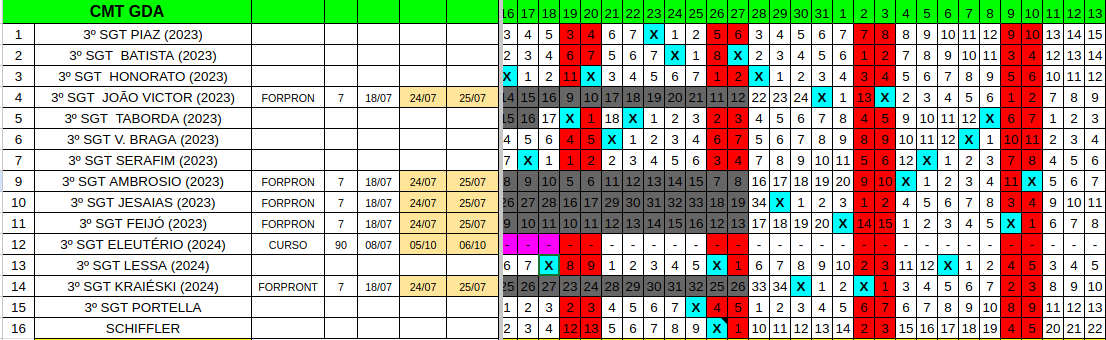
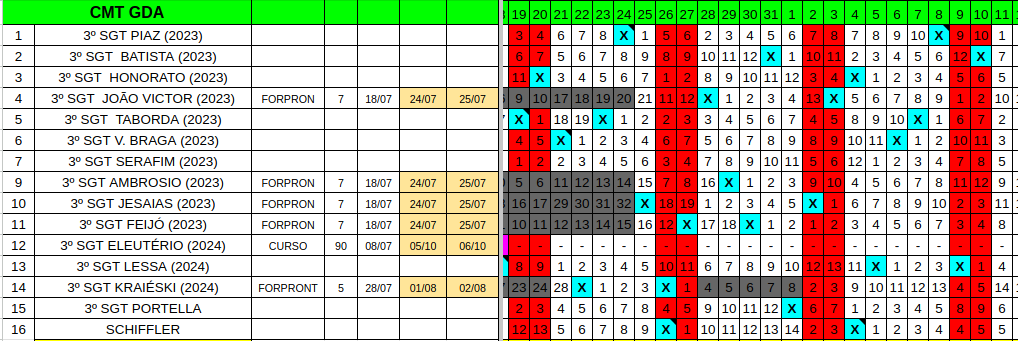
Add files via upload

diff --git a/assets/css/style.css b/assets/css/style.css
@@ -67,7 +67,7 @@ h2#tituloEscala img {
     align-items: center;
 }
 
-.imagem-container img {
+.zoom-container img {
     max-width: 100%;
     max-height: 70vh;
     border-radius: 10px;
@@ -91,8 +91,6 @@ h2#tituloEscala img {
 }
 
 .lightbox img {
-    width: auto;
-    height: auto;
     max-width: 100%;
     max-height: 95vh;
     border-radius: 10px;
@@ -109,12 +107,12 @@ h2#tituloEscala img {
 
 @keyframes zoomIn {
     from {
-        transform: scale(2.0);
+        transform: scale(0.8);
         opacity: 0;
     }
 
     to {
-        transform: scale(1.8);
+        transform: scale(2.8);
         opacity: 1;
     }
 }

diff --git a/index.html b/index.html
@@ -3,7 +3,7 @@
 
 <head>
     <meta charset="UTF-8">
-    <title>Página com Barra Lateral</title>
+    <title>Escala SV 11ª Bia AAA AP</title>
     <link rel="stylesheet" href="assets/css/style.css">
     <link rel="shortcut icon" href="assets/images/logo.ico" type="image/x-icon">
 </head>
